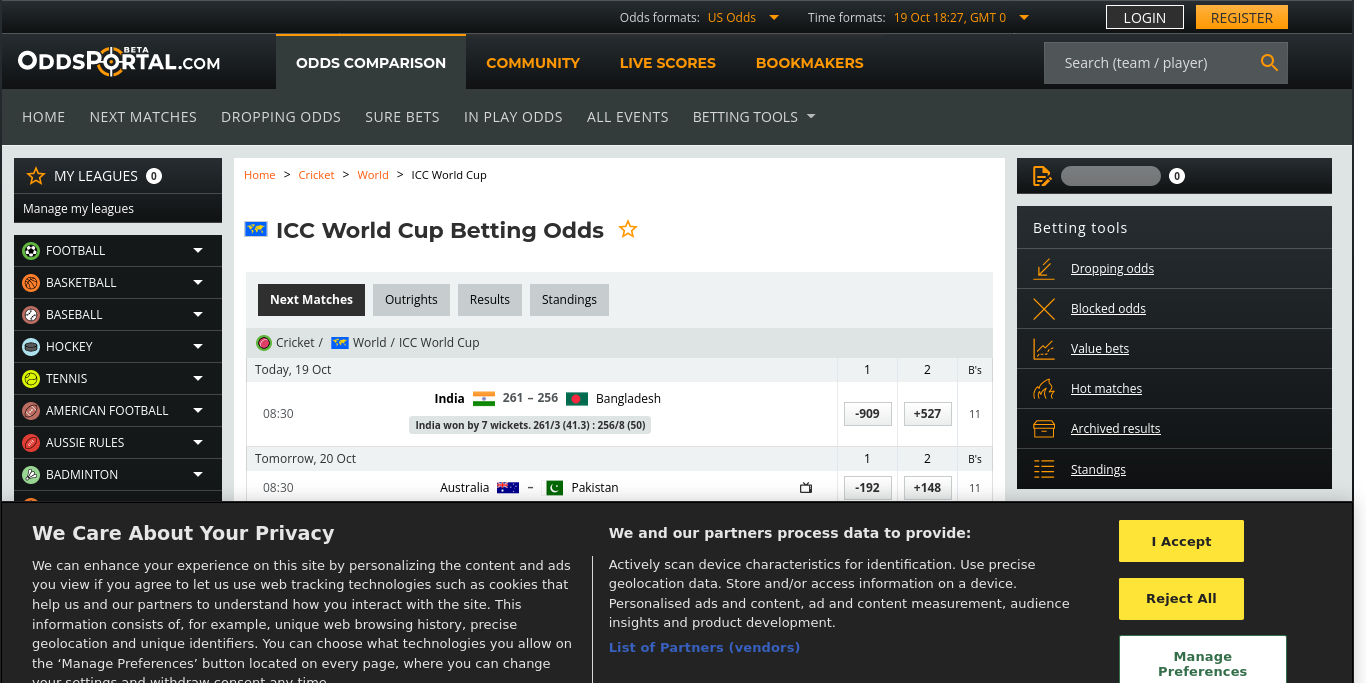
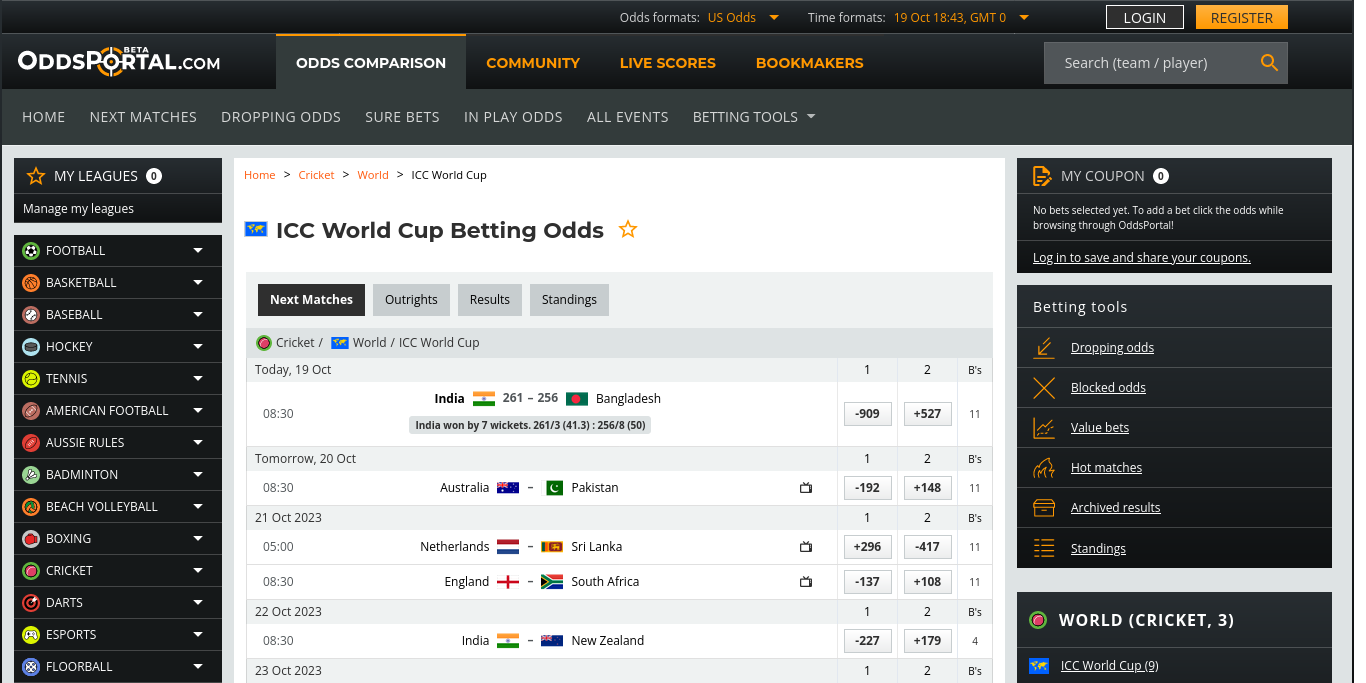
Update Data (Cron) Thu Oct 19 18:44:14 UTC 2023

Changed region(s): [[0.0, 0.6149, 1.0, 1.0], [0.7379, 0.246, 0.9839, 0.5842]]

diff --git a/src/nonview/data/TEAM1_ID_TO_TEAM2_ID_TO_ODDS_PAIR.js b/src/nonview/data/TEAM1_ID_TO_TEAM2_ID_TO_ODDS_PAIR.js
@@ -1,13 +1,13 @@
 // Auto Generated by UpdateTeam1IDToTeam2IDToOddsPair
 // https://www.oddsportal.com/cricket/world/icc-world-cup/
-// 2023-10-19 23:57:35 +0000
+// 2023-10-20 00:14:03 +0000
 
 import { TEAM } from "../core/Team.js";
 
 export const TEAM1_ID_TO_TEAM2_ID_TO_ODDS_PAIR = {
   [TEAM.IND.id]: {
     [TEAM.BGD.id]: [1.11, 6.27],
-    [TEAM.NZL.id]: [1.44, 2.77],
+    [TEAM.NZL.id]: [1.44, 2.79],
   },
   [TEAM.AUS.id]: {
     [TEAM.PAK.id]: [1.52, 2.48],

diff --git a/src/nonview/constants/VERSION.js b/src/nonview/constants/VERSION.js
@@ -1,4 +1,4 @@
 // Auto-generated by javascript_version.py
-export const VERSION_UT = 1697740063;
+export const VERSION_UT = 1697741054;
 export const VERSION_DATETIME = new Date(VERSION_UT * 1_000);
 export const LAST_COMMIT_MESSAGE = "Updated 📊Data";

diff --git a/src/nonview/data/TEAM_ID_TO_P_WINNER.js b/src/nonview/data/TEAM_ID_TO_P_WINNER.js
@@ -1,6 +1,6 @@
 // Auto Generated by UpdateTeamIDToPWinner
 // https://www.oddsportal.com/cricket/world/icc-world-cup/outrights/
-// 2023-10-19 23:57:43 +0000
+// 2023-10-20 00:14:14 +0000
 
 export const TEAM_ID_TO_P_WINNER = {
   IND: 0.418214, // 42%

diff --git a/src/nonview/data/ODI_ID_TO_WINNER.js b/src/nonview/data/ODI_ID_TO_WINNER.js
@@ -1,6 +1,6 @@
 // Auto Generated by UpdateODIIDToWinner
 // https://www.cricbuzz.com/cricket-series/6732/icc-cricket-world-cup-2023/matches
-// 2023-10-19 23:57:17 +0000
+// 2023-10-20 00:13:42 +0000
 
 import { TEAM } from "../core/Team.js";
 

diff --git a/src/nonview/data/POINTS_TABLE.js b/src/nonview/data/POINTS_TABLE.js
@@ -1,6 +1,6 @@
 // Auto Generated by UpdatePointsTable
 // https://www.cricketworldcup.com/standings
-// 2023-10-19 23:57:26 +0000
+// 2023-10-20 00:13:52 +0000
 
 import { TEAM } from "../core/Team.js";
 
